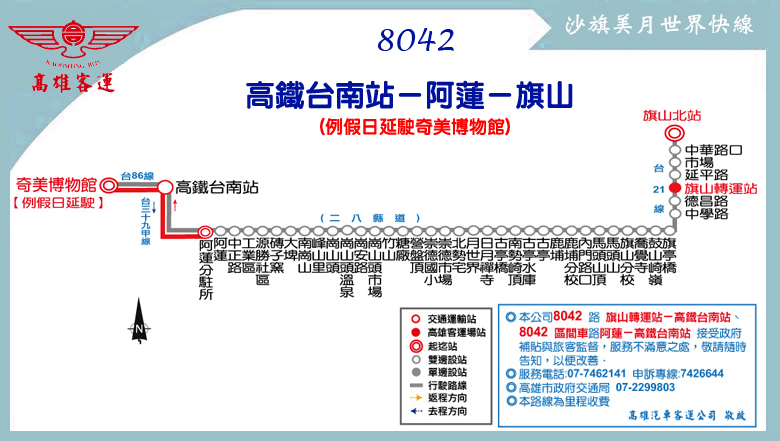
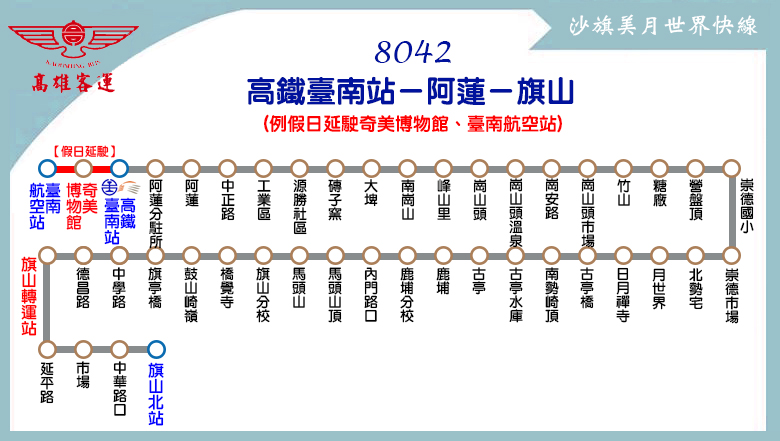
Update 8042, 8046, 8046A

diff --git a/route/fare_and_time/highway_bus_8042.js b/route/fare_and_time/highway_bus_8042.js
@@ -12,14 +12,14 @@ highway_bus_8042_fare = [
 // format = [time at the start stop] or
 // [time, other] or
 // [time, start_stop, end_stop, other]
-highway_bus_8042_main_stop_name = ["奇美博物站<br /><font color=\"red\">(假日延駛)</font>","高鐵台南站","阿蓮分駐所","崗山頭","旗山轉運站","旗山北站"];
-highway_bus_8042_main_stop_time_consume = [0,15,30,35,60,65];
-highway_bus_8042_important_stop = [0, 1, 4]; // 奇美博物站, 高鐵台南站, 旗山轉運站
+highway_bus_8042_main_stop_name = ["臺南航空站<br /><font color=\"red\">(假日延駛)</font>","奇美博物館<br /><font color=\"red\">(假日延駛)</font>","高鐵臺南站","阿蓮分駐所","崗山頭","旗山轉運站","旗山北站"];
+highway_bus_8042_main_stop_time_consume = [0,2,17,32,37,62,67];
+highway_bus_8042_important_stop = [0, 1, 2, 5]; // 臺南航空站, 奇美博物站, 高鐵台南站, 旗山轉運站
 highway_bus_8042_time_go = [
-["08:50",0,2],["09:20",1,2],["10:20",0,2],["10:50",1,2],["11:10"],["12:20"],["13:35",1,2],["13:55",0,2],["15:05"],["15:15",0,2],
-["15:50",1,2],["17:15"]
+["08:48",0,3],["10:00",2,3],["10:18",0,3],["11:15",2,3],["11:08"],["12:18"],["13:53",0,3],["15:00",2,3],["15:13",0,3],
+["16:10",2,3],["16:03"],["17:13"]
 ];
 highway_bus_8042_time_return = [
-["07:40"],["09:00"],["10:00",2,1],["10:25",2,0],["11:15",2,1],["11:40",2,0],["12:40"],["14:10",2,1],["13:50"],["14:30",2,0],
-["16:20",2,1],["16:40",2,0]
+["07:40"],["09:00"],["09:20",3,2],["10:25",3,0],["10:50",3,2],["11:40",3,0],["12:40"],["13:50"],["14:35",3,2],["15:15",3,0],
+["15:50",3,2],["16:40",3,0]
 ];

diff --git a/route/fare_and_time/highway_bus_8046A.js b/route/fare_and_time/highway_bus_8046A.js
@@ -14,7 +14,7 @@ highway_bus_8046A_fare = [
 // [time, other] or
 // [time, start_stop, end_stop, other]
 highway_bus_8046A_main_stop_name = ["臺南火車站","嘉南<br />藥理大學","路竹","岡山轉運站","楠梓站<br />(楠梓火車站)","高鐵左營站"];
-highway_bus_8046A_main_stop_time_consume = [0,20,35,50,70,80];
+highway_bus_8046A_main_stop_time_consume = [0,25,45,60,80,90];
 highway_bus_8046A_important_stop = [0, 3, 5]; // 臺南火車站, 岡山轉運站, 高鐵左營站
 highway_bus_8046A_time_go = [["07:30"],["11:30"],["14:00"],["17:45"]];
 highway_bus_8046A_time_return = [["08:00"],["10:00"],["12:20"],["15:50"]];

diff --git a/highway_bus/highway_bus_8042.html b/highway_bus/highway_bus_8042.html
@@ -7,11 +7,10 @@
 	route_name_en = 'No.8042';
 	route_file_name = 'highway_bus_8042';
 	route_type = 'highway_bus';
-	route_interval = ['高鐵台南站','阿蓮','旗山'];
-	route_start_stop = '高鐵台南站/奇美博物館';
+	route_interval = ['高鐵臺南站','阿蓮','旗山'];
+	route_start_stop = '高鐵臺南站/臺南航空站';
 	route_end_stop = '阿蓮/旗山';
 </script>
-<link href="../css/radio_style.css" rel="stylesheet" />
 <script src="../tools/web_model.js"></script> 
 <script type="text/javascript">
 	title_name = '公路客運';

diff --git a/highway_bus/highway_bus_8046.html b/highway_bus/highway_bus_8046.html
@@ -11,7 +11,6 @@
 	route_start_stop = '臺南火車站';
 	route_end_stop = '高雄火車站';
 </script>
-<link href="../css/radio_style.css" rel="stylesheet" />
 <script src="../tools/web_model.js"></script> 
 <script type="text/javascript">
 	title_name = '公路客運';

diff --git a/highway_bus/highway_bus_8046A.html b/highway_bus/highway_bus_8046A.html
@@ -11,7 +11,6 @@
 	route_start_stop = '臺南火車站';
 	route_end_stop = '高鐵左營站';
 </script>
-<link href="../css/radio_style.css" rel="stylesheet" />
 <script src="../tools/web_model.js"></script> 
 <script type="text/javascript">
 	title_name = '公路客運';
